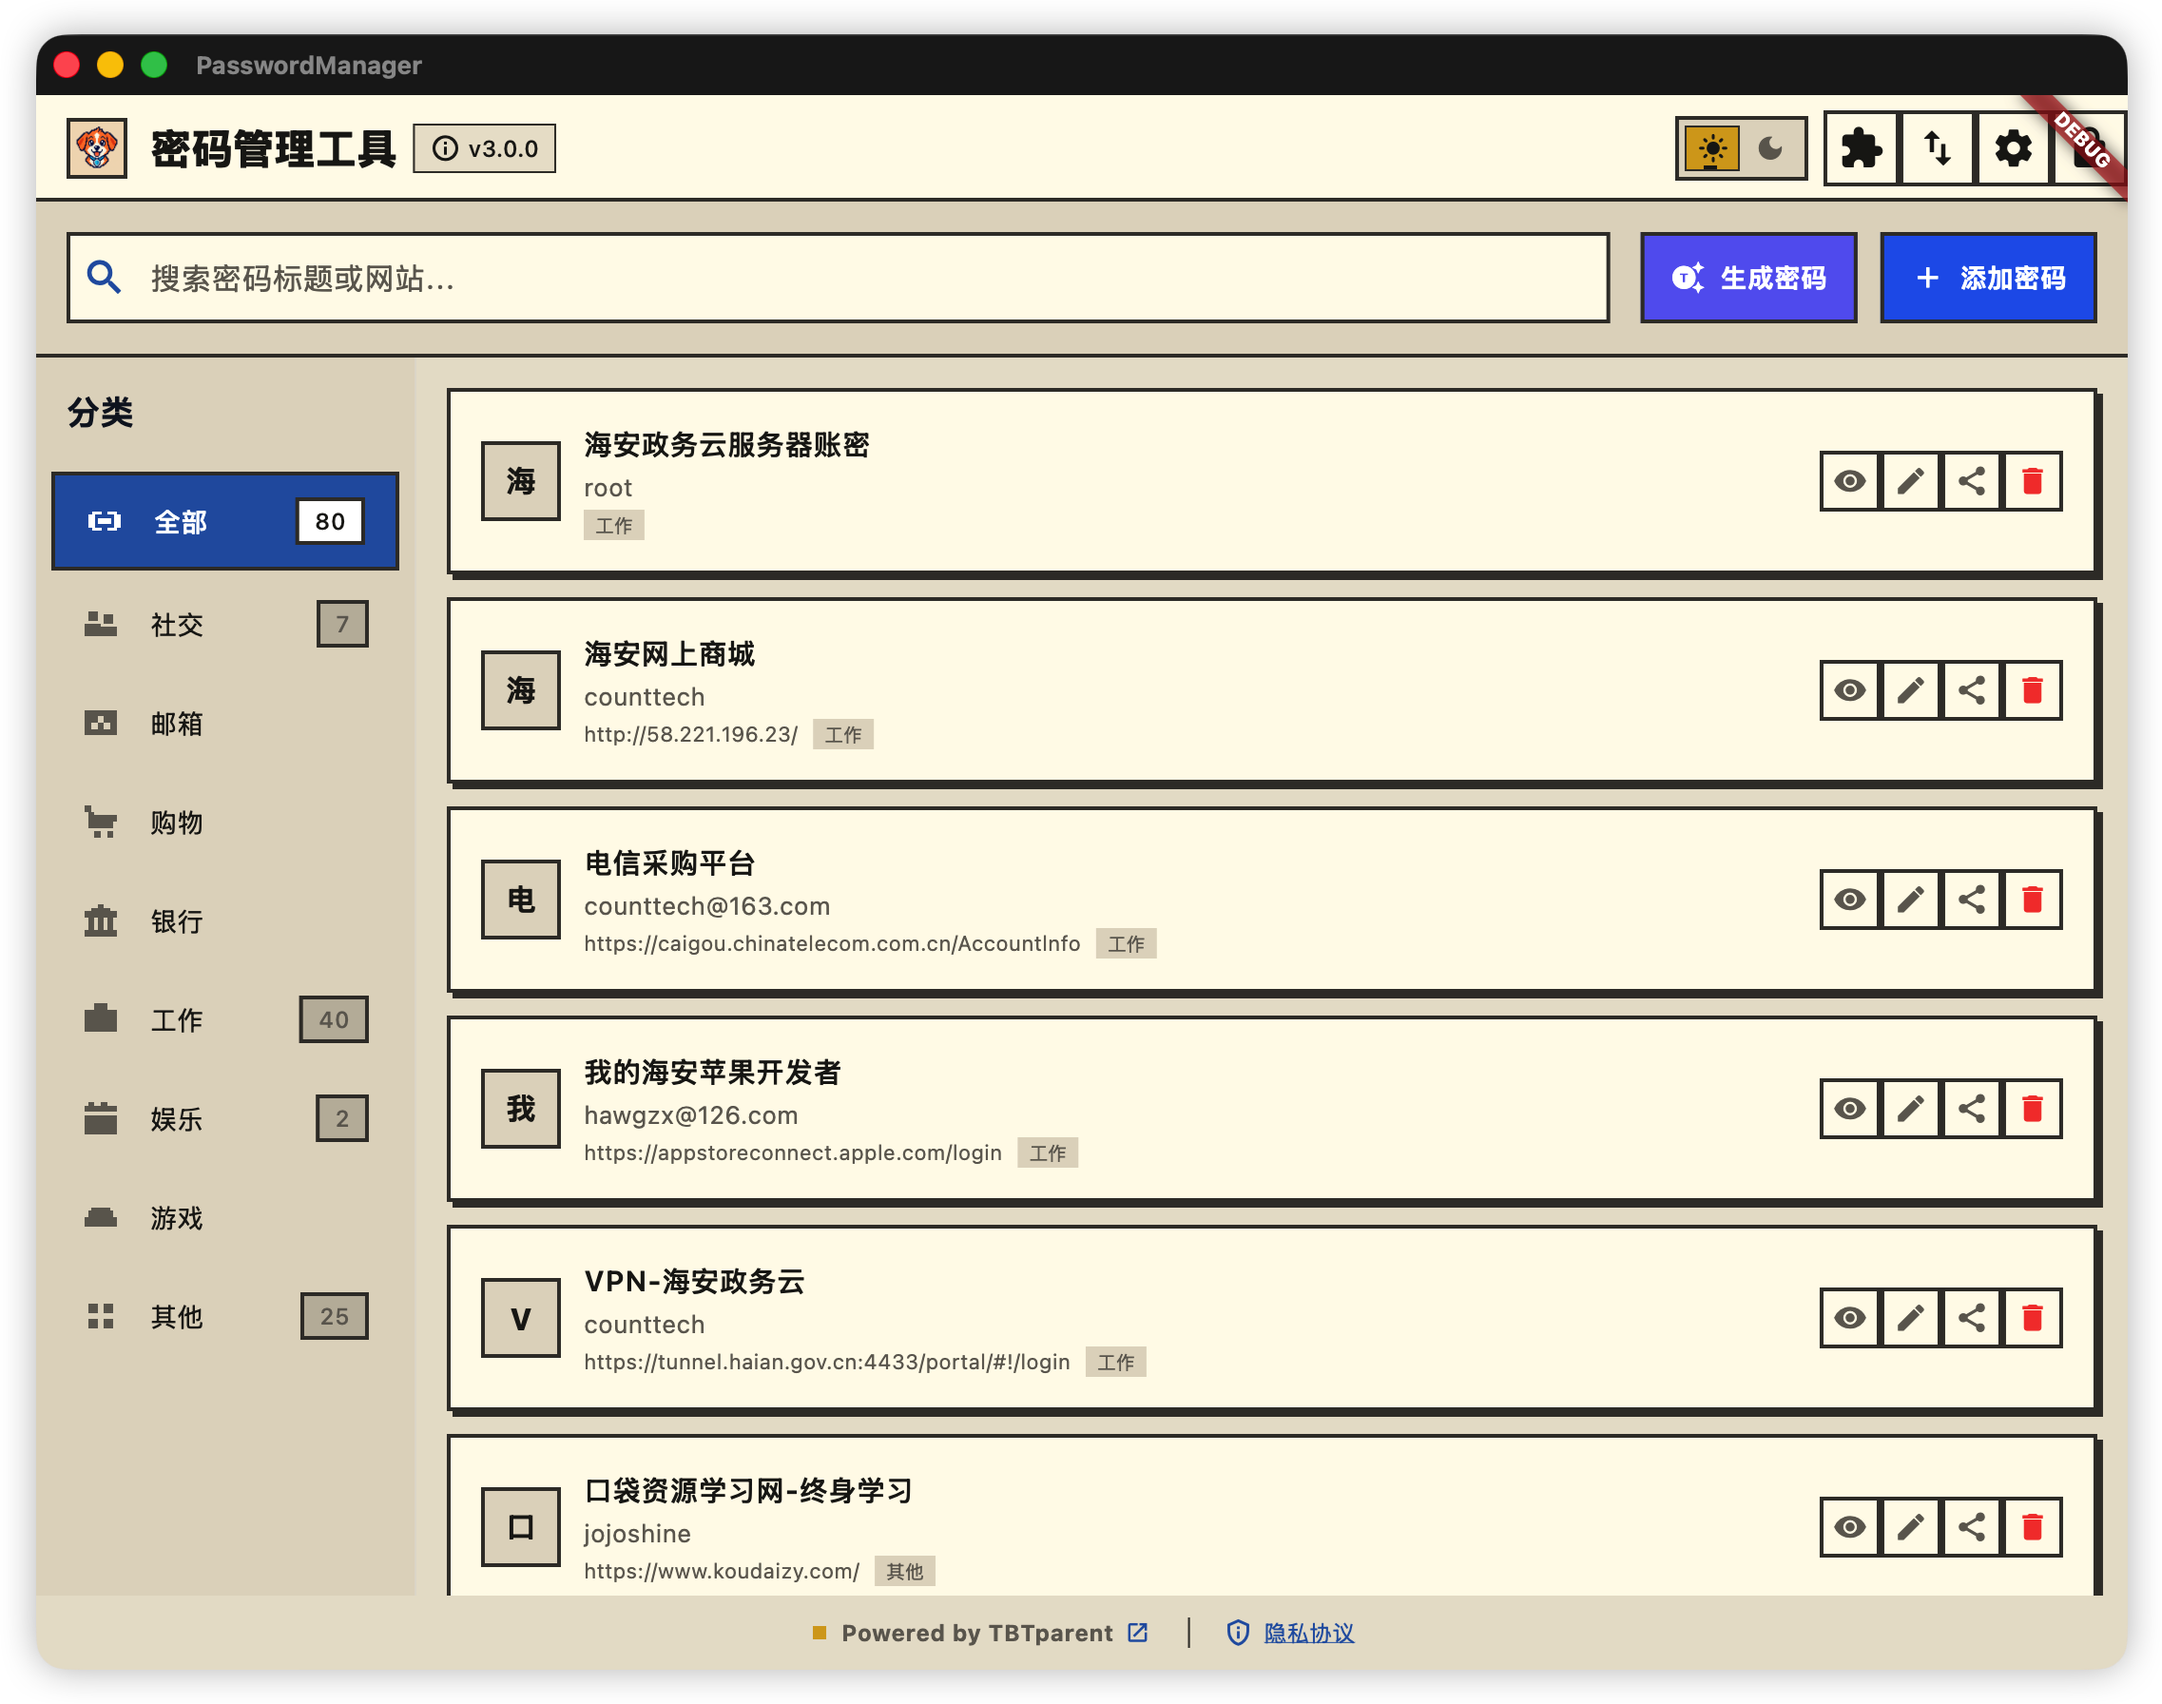
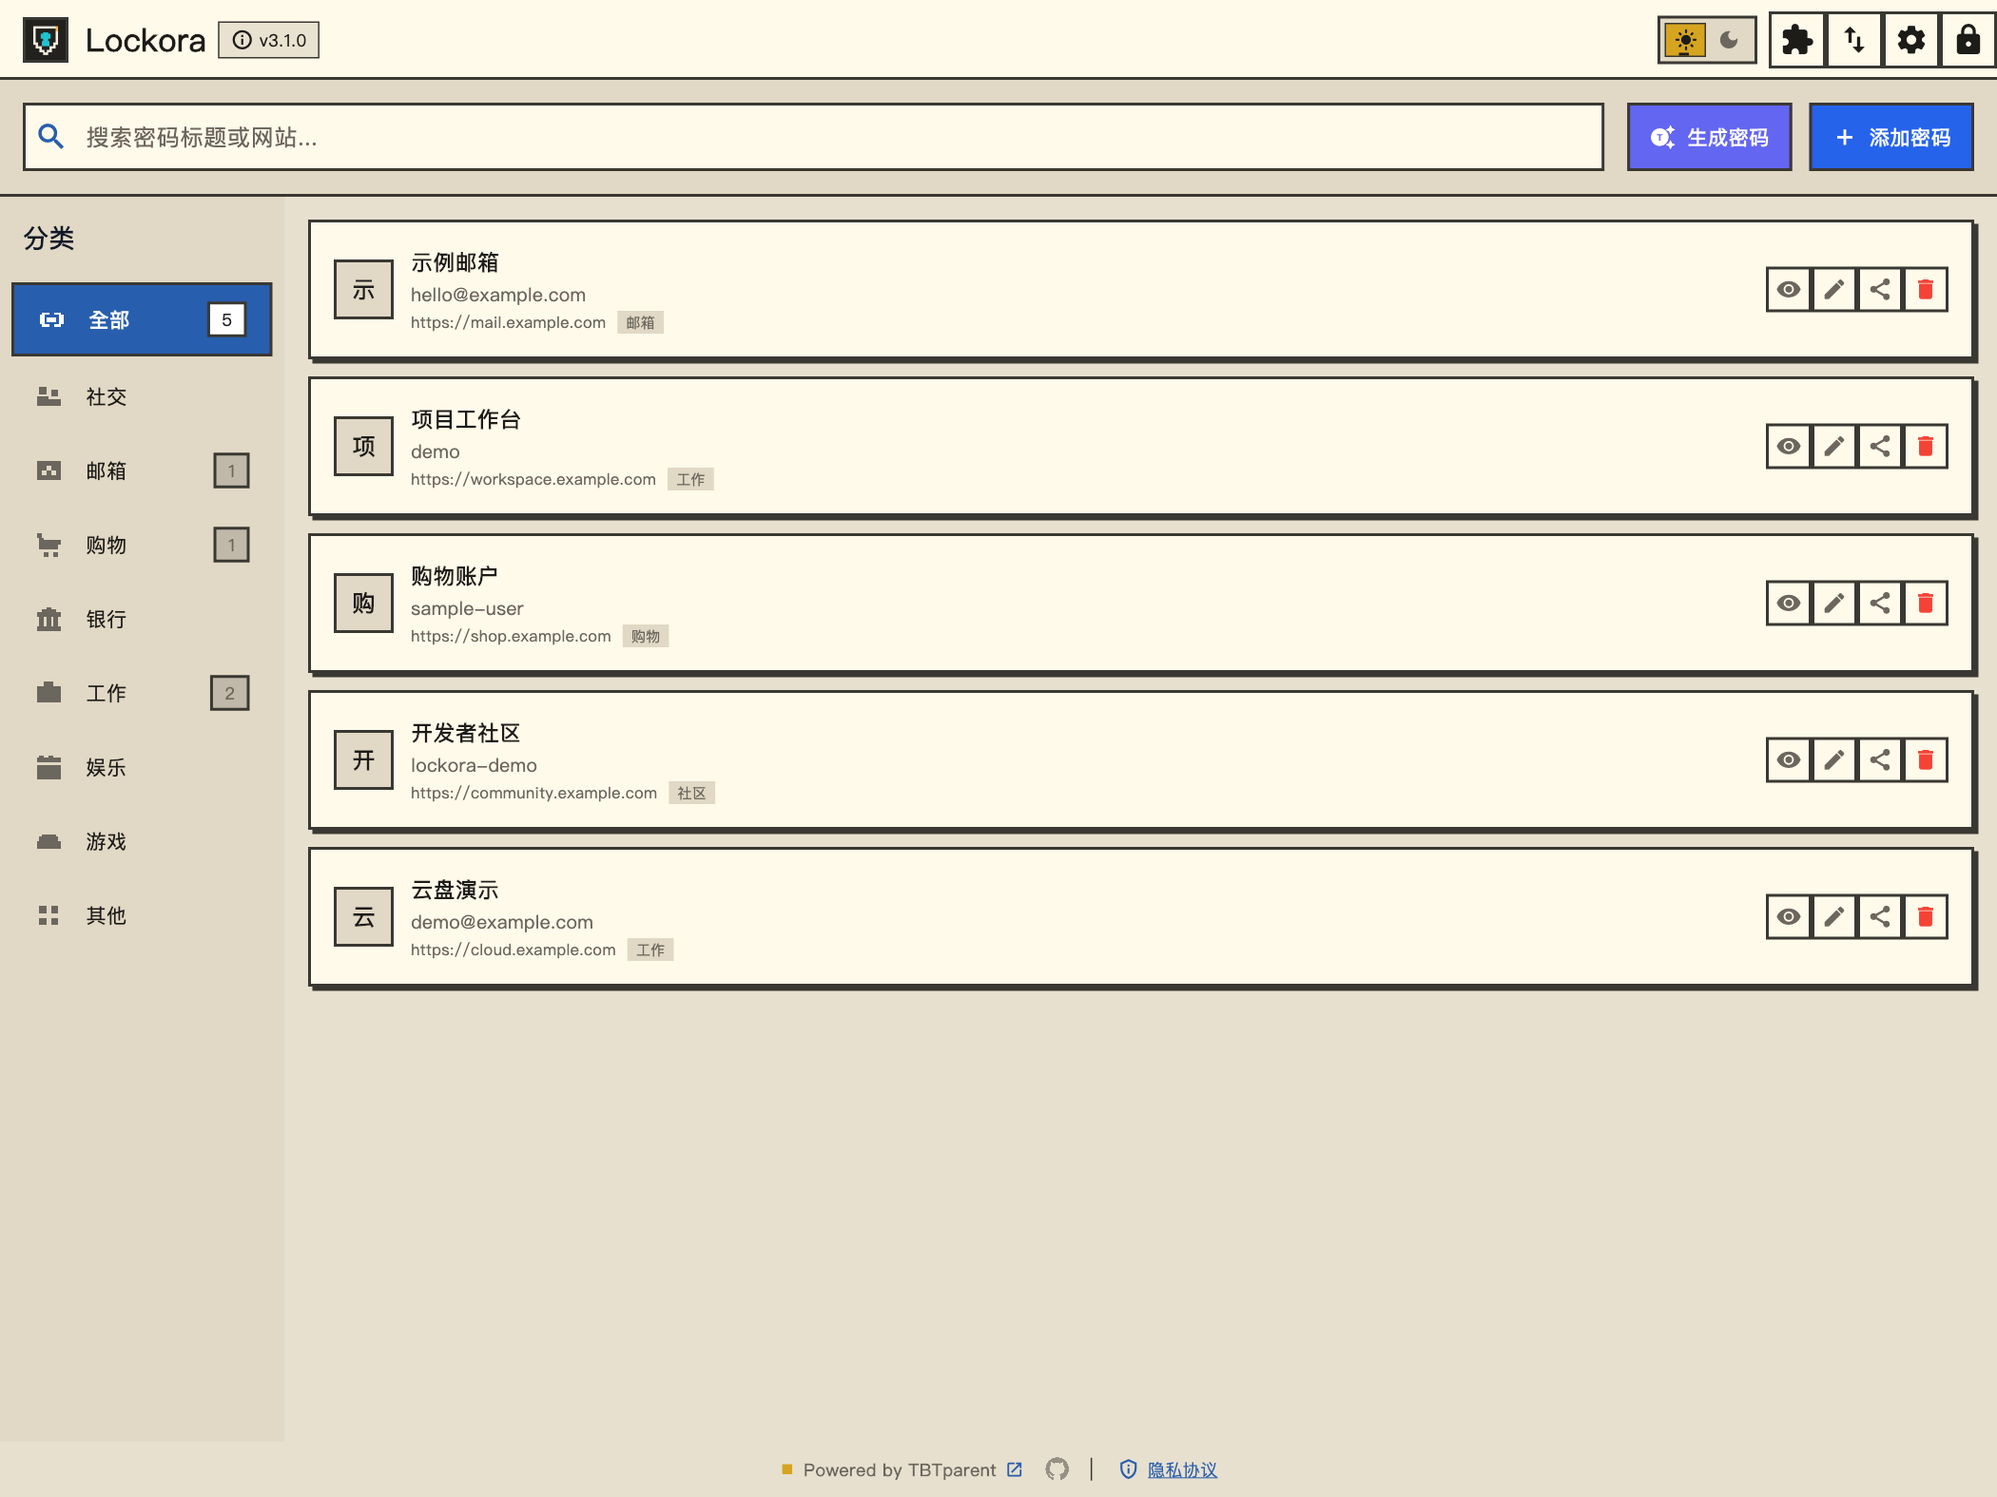
fix: publish Lockora landing page branding and release information

diff --git a/landing.html b/landing.html
@@ -3,10 +3,10 @@
 <head>
   <meta charset="utf-8">
   <meta name="viewport" content="width=device-width, initial-scale=1">
-  <meta name="description" content="密码管理工具是一款面向 macOS 与 Windows 的本地密码管理器，支持密码生成、分类检索、浏览器填充与导入导出。">
+  <meta name="description" content="Lockora 是一款面向 macOS 与 Windows 的本地密码管理器，支持密码生成、分类检索、浏览器填充与导入导出。">
   <meta name="theme-color" content="#f5eedc">
-  <title>密码管理工具 | 本地保存，轻松使用</title>
-  <link rel="icon" href="landing-assets/logo.png">
+  <title>Lockora | 本地保存，轻松使用</title>
+  <link rel="icon" href="landing-assets/logo.png?v=lockora">
   <link rel="stylesheet" href="landing.css">
 </head>
 <body>
@@ -14,14 +14,15 @@
 
   <header class="site-header">
     <nav class="nav shell" aria-label="主要导航">
-      <a class="brand" href="#top" aria-label="密码管理工具首页">
-        <img src="landing-assets/logo.png" alt="像素小狗应用图标" width="42" height="42">
-        <span>密码管理工具</span>
+      <a class="brand" href="#top" aria-label="Lockora 首页">
+        <img src="landing-assets/logo.png?v=lockora" alt="Lockora 像素盾牌图标" width="42" height="42">
+        <span>Lockora</span>
       </a>
       <div class="nav-links">
         <a href="#features">产品特点</a>
         <a href="#guide">使用方法</a>
         <a href="#extension">浏览器插件</a>
+        <a href="#updates">版本更新</a>
         <a href="#faq">常见问题</a>
       </div>
       <a class="button button-primary" href="#download">立即下载 <span class="pixel-arrow" aria-hidden="true">↓</span></a>
@@ -34,7 +35,7 @@
         <div class="hero-copy reveal">
           <p class="eyebrow mono">LOCAL PASSWORD MANAGER</p>
           <h1>密码留在本地<br>登录变得简单。</h1>
-          <p>本地加密保存、快速检索，并通过浏览器插件完成填充与保存。</p>
+          <p>本地保存、快速检索，并通过浏览器插件完成填充与保存。</p>
           <div class="hero-actions">
             <a class="button button-primary" href="#download">下载桌面应用 <span class="pixel-arrow" aria-hidden="true">↓</span></a>
             <a class="button button-secondary" href="#guide">查看使用方法 <span class="pixel-arrow" aria-hidden="true">→</span></a>
@@ -53,19 +54,19 @@
           </div>
           <figure class="product-figure">
             <div class="product-window">
-              <img src="landing-assets/app-overview.png" alt="密码管理工具主界面，包含分类、搜索和密码卡片">
+              <img src="landing-assets/app-overview.png?v=lockora-3.1.0" alt="Lockora 3.1.0 主界面，新版盾牌图标与演示密码数据">
               <div class="privacy-mask" aria-hidden="true"><span>演示数据已隐藏</span></div>
             </div>
             <figcaption class="product-caption mono">
               <span>一个界面，集中管理</span>
-              <span>V3.0.0</span>
+              <span>V3.1.0</span>
             </figcaption>
           </figure>
 
           <span class="connection-link" aria-hidden="true"><i></i></span>
           <aside class="extension-preview" aria-label="浏览器插件与桌面应用联动示意">
             <div class="extension-preview-head">
-              <img src="landing-assets/browser-extension.png" alt="浏览器插件图标" width="34" height="34">
+              <img src="landing-assets/browser-extension.png?v=lockora" alt="浏览器插件图标" width="34" height="34">
               <div>
                 <strong>浏览器插件</strong>
                 <span>与桌面应用本地联动</span>
@@ -109,8 +110,8 @@
             <article class="trust-item">
               <span class="pixel-tile" aria-hidden="true">存</span>
               <div>
-                <h3>本地加密保存</h3>
-                <p>密码数据保存在本机，可在设置中查看对应系统的数据目录。</p>
+                <h3>本地文件存储</h3>
+                <p>可在设置中更改密码库目录。3.1.0 的桌面密码库和自动备份为明文 JSON；需要备份时可选择加密 JSON 导出。</p>
               </div>
             </article>
             <article class="trust-item">
@@ -234,23 +235,41 @@
       </div>
     </section>
 
+    <section class="section" id="updates">
+      <div class="shell">
+        <div class="section-head reveal">
+          <p class="section-kicker mono">VERSION NOTES</p>
+          <h2>版本更新</h2>
+          <p>了解当前版本的变化，以及如何从旧版升级。</p>
+        </div>
+        <div class="faq-list reveal">
+          <details open>
+            <summary>3.1.0 · 2026-11-04</summary>
+            <p>应用和浏览器扩展统一更名为 Lockora，更新图标。支持更改密码库目录，可选择 iCloud 等自己的同步目录；改进重复保存提示、扩展连接恢复与底部显示。</p>
+            <p>macOS 和 Windows 新增“设置 → 版本与更新”，可检查版本并由用户确认安装，更新包会验证签名。正在编辑、保存或导入导出时会阻止更新退出。</p>
+            <p>3.0.0 用户需手动安装本版一次，原设置与密码库路径继续保留。3.1.0 尚未启用桌面密码库的默认加密，主密码解锁不等于文件加密。</p>
+            <p><a href="https://github.com/JojoShine/password_manager/releases/tag/lockora-v3.1.0" target="_blank" rel="noopener noreferrer">查看完整发布说明与下载文件 →</a></p>
+          </details>
+        </div>
+      </div>
+    </section>
+
     <section class="section download-section" id="download">
       <div class="download-content shell">
         <div class="reveal">
           <p class="section-kicker download-kicker mono">DOWNLOAD</p>
           <h2>选择你的系统，开始整理密码。</h2>
-          <p>下载并解压安装包后，按照系统提示完成安装。</p>
+          <p>下载适合系统的安装包，按照下方说明完成安装。</p>
         </div>
         <div class="download-options reveal">
-          <!-- 当前链接指向占位压缩包。替换 OSS 同路径文件后，无需修改本页面。 -->
-          <a class="download-card" href="https://tbtparent-me.oss-cn-hangzhou.aliyuncs.com/Download/PasswordManager-macos.zip" download>
+          <a class="download-card" href="https://tbtparent-me.oss-cn-hangzhou.aliyuncs.com/Download/lockora/releases/3.1.0/Lockora-3.1.0-macos.zip" download>
             <span class="os-icon mono" aria-hidden="true">MAC</span>
             <span><strong>下载 macOS 版</strong><small>ZIP 压缩包</small></span>
             <span class="pixel-arrow" aria-hidden="true">↓</span>
           </a>
-          <a class="download-card" href="https://tbtparent-me.oss-cn-hangzhou.aliyuncs.com/Download/PasswordManager-windows.zip" download>
+          <a class="download-card" href="https://tbtparent-me.oss-cn-hangzhou.aliyuncs.com/Download/lockora/releases/3.1.0/Lockora-3.1.0-windows-setup.exe" download>
             <span class="os-icon mono" aria-hidden="true">WIN</span>
-            <span><strong>下载 Windows 版</strong><small>ZIP 压缩包</small></span>
+            <span><strong>下载 Windows 版</strong><small>EXE 安装包</small></span>
             <span class="pixel-arrow" aria-hidden="true">↓</span>
           </a>
         </div>
@@ -268,13 +287,13 @@
               <span class="os-icon mono" aria-hidden="true">WIN</span>
               <div>
                 <h3>Windows</h3>
-                <p>先确定程序长期存放的位置，再开始解压。</p>
+                <p>运行安装程序，按提示完成当前用户安装。</p>
               </div>
             </div>
             <ol class="install-step-list">
-              <li>将压缩包放到平时用于存放软件的磁盘或目录。</li>
-              <li>在当前位置解压压缩包，然后打开解压后的文件夹。</li>
-              <li>找到 EXE 程序，右键选择“发送到 → 桌面快捷方式”。</li>
+              <li>下载 Lockora Windows 安装程序。</li>
+              <li>双击 EXE 安装程序，按照提示完成安装。</li>
+              <li>从开始菜单打开 Lockora，并设置或输入主密码。</li>
             </ol>
           </article>
 
@@ -288,8 +307,8 @@
             </div>
             <ol class="install-step-list">
               <li>下载并解压 macOS 压缩包。</li>
-              <li>将密码管理工具拖入本机的“应用程序”目录。</li>
-              <li>进入“应用程序”，打开密码管理工具并设置主密码。</li>
+              <li>将 Lockora 拖入本机的“应用程序”目录。</li>
+              <li>进入“应用程序”，打开 Lockora 并设置或输入主密码。</li>
             </ol>
           </article>
         </div>
@@ -334,7 +353,7 @@
 
   <footer>
     <div class="footer-inner shell">
-      <span>© <span id="year">2026</span> 密码管理工具</span>
+      <span>© <span id="year">2026</span> Lockora</span>
       <span>Powered by <a href="https://tbtparent.me" target="_blank" rel="noopener noreferrer">TBTparent</a></span>
     </div>
   </footer>

diff --git a/deploy/README.md b/deploy/README.md
@@ -1,0 +1,9 @@
+# Lockora 产品介绍页
+
+站点地址为 https://tbtparent.me/lockora/，静态目录为 `/srv/www/lockora`。
+
+产品页使用仓库根目录的 `landing.html`、`landing.css`、`landing.js` 和 `landing-assets/`。部署时将 `landing.html` 命名为 `index.html`，其余资源保持相对目录结构。`web/` 是 Flutter 浏览器应用的入口文件。
+
+Nginx 配置源文件为 `nginx/lockora.conf`，服务器配置路径为 `/etc/nginx/business/tbtparent.me/lockora.conf`。旧的 `/password-manager` 地址跳转到 `/lockora/`。
+
+更新前备份现有静态目录和配置；先准备完整资源，再替换配置，执行 `nginx -t` 通过后重载 Nginx。验证新页面、CSS、JavaScript、图标和旧地址跳转，缺失资源应返回 404。
